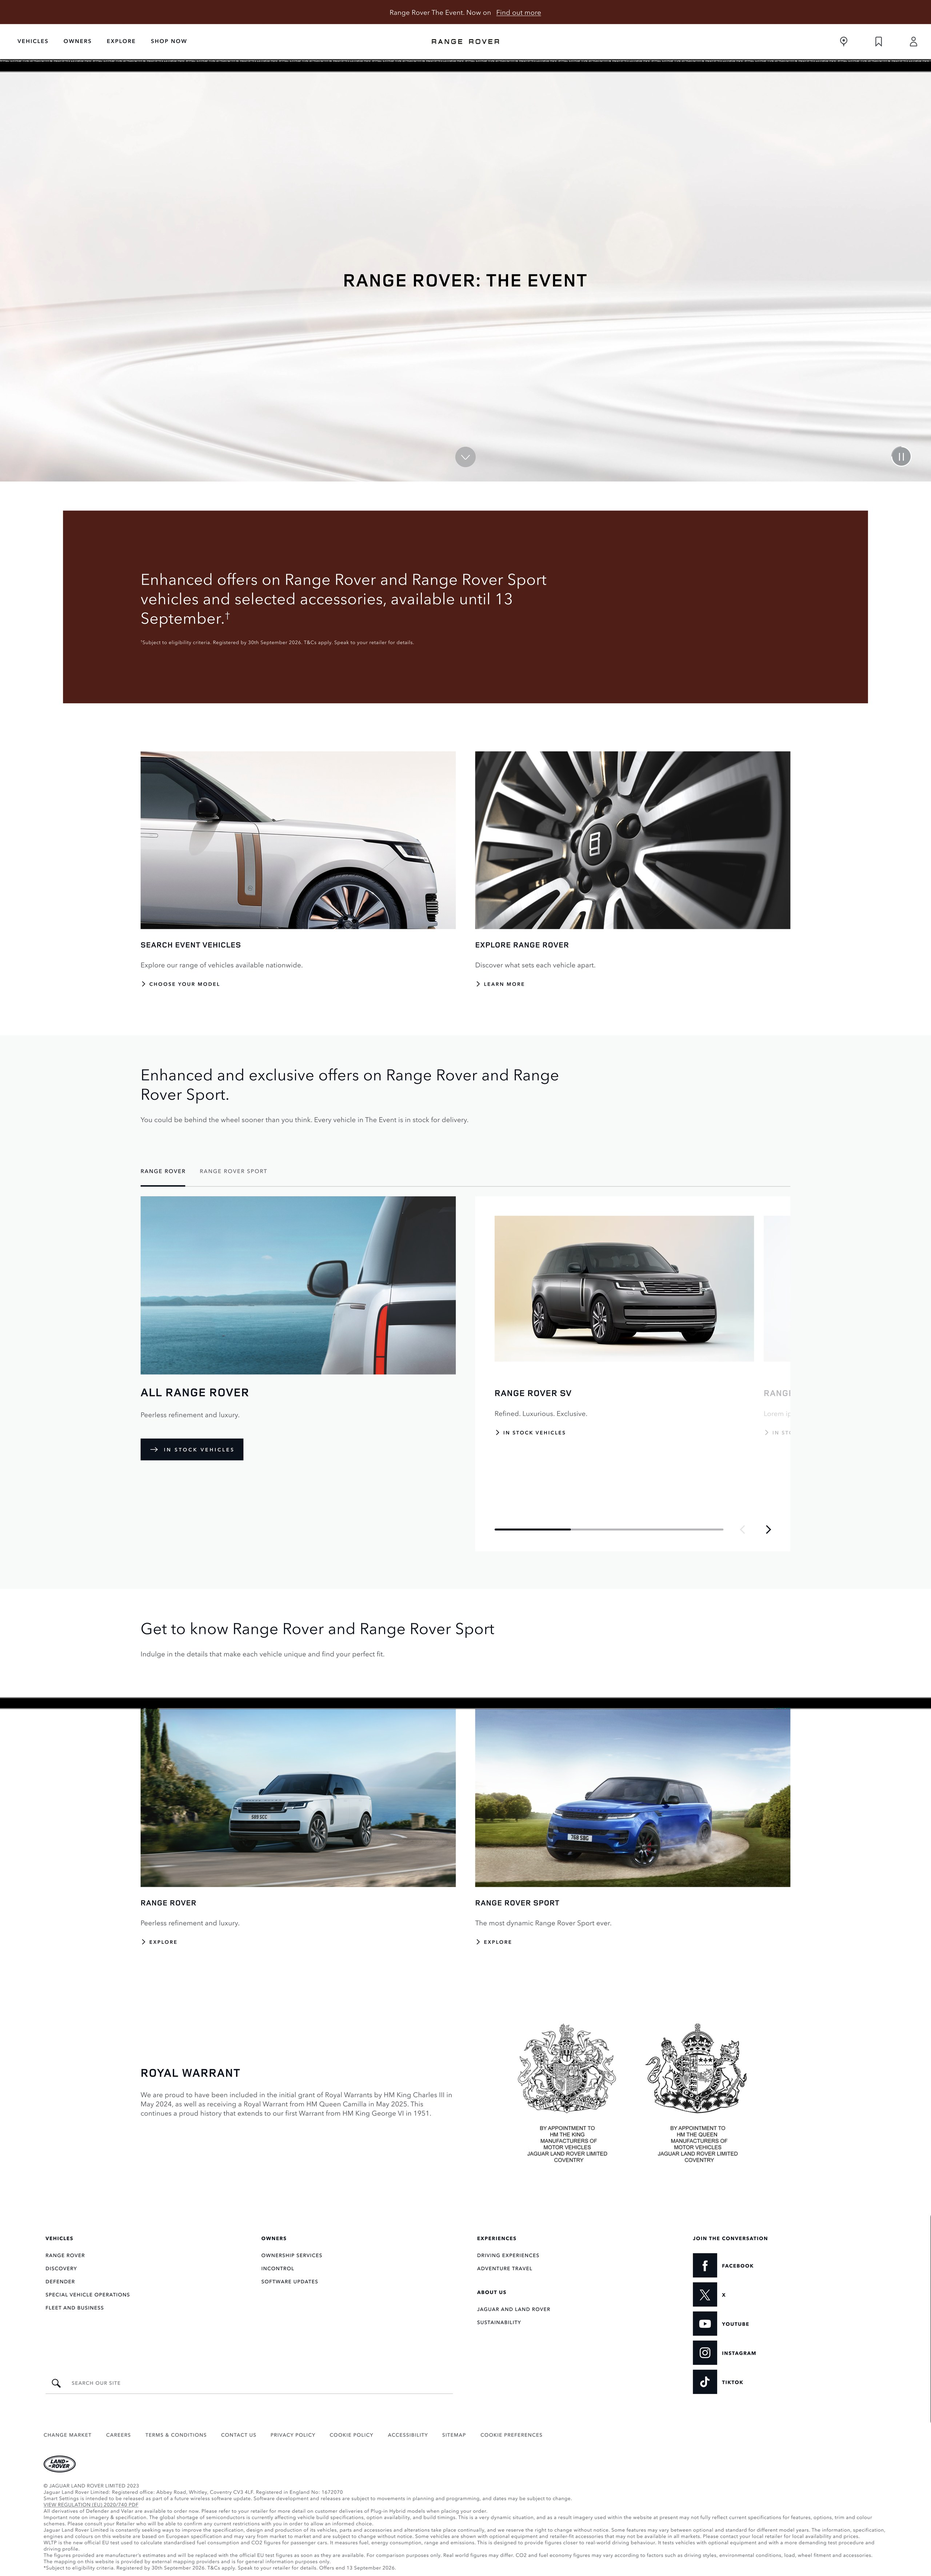
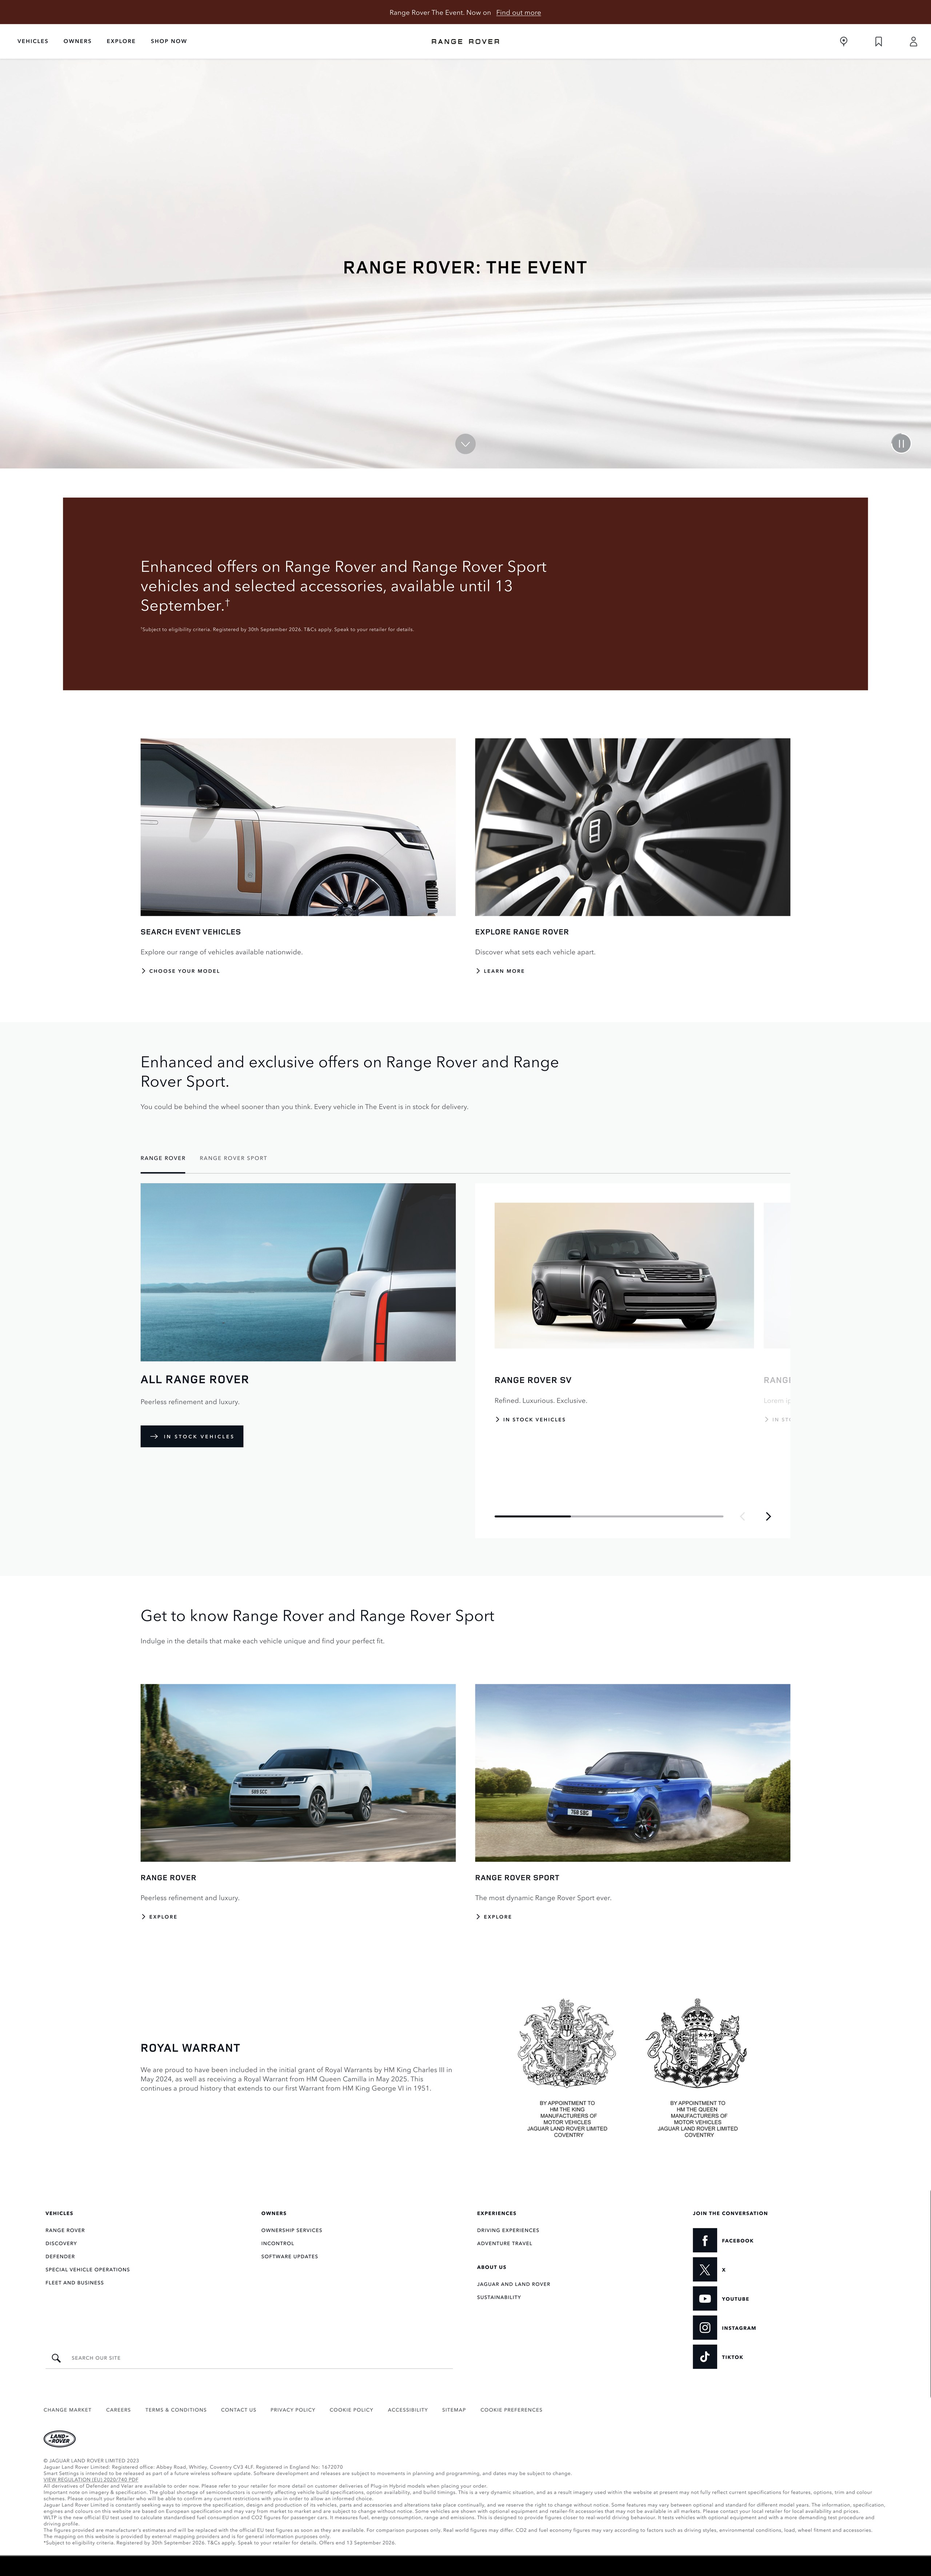
Add files via upload

diff --git a/index.html b/index.html
@@ -271,11 +271,28 @@
       pointer-events: none;
     }
     #lb-dots {
-      position: fixed; bottom: 20px; left: 50%; transform: translateX(-50%);
-      display: flex; gap: 8px; z-index: 2010;
+      position: fixed; bottom: 24px; left: 50%; transform: translateX(-50%);
+      display: flex; gap: 8px; z-index: 2010; align-items: center;
     }
     .lb-dot { width: 6px; height: 6px; border-radius: 50%; background: rgba(240,235,227,.2); cursor: none; transition: background .2s, transform .2s; }
     .lb-dot.active { background: #B5402A; transform: scale(1.3); }
+    #lb-prev, #lb-next {
+      position: fixed; top: 50%; z-index: 2010;
+      transform: translateY(-50%);
+      width: 48px; height: 48px; border-radius: 50%;
+      border: 1px solid rgba(240,235,227,.2);
+      background: rgba(240,235,227,.05);
+      color: rgba(240,235,227,.7); font-size: 18px;
+      cursor: none; display: flex; align-items: center; justify-content: center;
+      transition: background .2s, border-color .2s, color .2s;
+      font-family: 'DM Sans', sans-serif;
+    }
+    #lb-prev { left: 24px; }
+    #lb-next { right: 24px; }
+    #lb-prev:hover, #lb-next:hover {
+      background: rgba(181,64,42,.2); border-color: #B5402A; color: #F0EBE3;
+    }
+    #lb-prev.hidden, #lb-next.hidden { opacity: 0; pointer-events: none; }
 
     /* ── STATS BAND ── */
     .stats-band { margin-top: 80px; background: #131009; padding: 80px 48px; display: grid; grid-template-columns: repeat(4,1fr); gap: 40px; }
@@ -542,9 +559,8 @@
 
           <!-- RANGE ROVER EVENT -->
           <div class="ui-hcard" id="event-card">
-            <div class="ui-mockup-wrap">
-              <div class="ui-mockup-screen ui-mockup-back"><img src="RANGE ROVER - LTO Banner.png" alt="" style="object-fit:contain;background:#1a1210;" /></div>
-              <div class="ui-mockup-screen ui-mockup-mid"><img src="event-countdown.jpg" alt="" style="object-fit:cover;object-position:top;" /></div>
+            <div class="ui-mockup-wrap two-screen">
+              <div class="ui-mockup-screen ui-mockup-back"><img src="event-countdown.jpg" alt="" style="object-fit:cover;object-position:top;" /></div>
               <div class="ui-mockup-screen ui-mockup-front"><img src="event-landing.jpg" alt="" style="object-fit:cover;object-position:top;" /></div>
               <span class="ui-view-hint">View all</span>
             </div>
@@ -586,6 +602,8 @@
         <button id="lb-close">✕</button>
       </div>
     </div>
+    <button id="lb-prev">&#8592;</button>
+    <button id="lb-next">&#8594;</button>
     <div id="lb-track"></div>
     <div id="lb-dots"></div>
   </div>
@@ -725,10 +743,8 @@
     event: {
       title: 'Range Rover Event',
       imgs: [
-        { src: 'event-landing.jpg',              label: 'Event Landing Page' },
-        { src: 'event-countdown.jpg',            label: 'Countdown Page' },
-        { src: 'RANGE ROVER - LTO Banner.png',   label: 'LTO Banner' },
-        { src: 'RANGE ROVER - LTO Banner-1.png', label: 'LTO Banner 2' }
+        { src: 'event-landing.jpg',  label: 'Event Landing Page' },
+        { src: 'event-countdown.jpg', label: 'Countdown Page' }
       ]
     },
     promo: {
@@ -746,10 +762,35 @@
   var lbTitle   = document.getElementById('lb-topbar-title');
   var lbDotsEl  = document.getElementById('lb-dots');
 
-  function updateDots() {
-    var idx = Math.round(lbTrack.scrollLeft / window.innerWidth);
-    lbDotsEl.querySelectorAll('.lb-dot').forEach(function(d, i) { d.classList.toggle('active', i === idx); });
+  var lbPrevBtn = document.getElementById('lb-prev');
+  var lbNextBtn = document.getElementById('lb-next');
+
+  function getCurrentIdx() {
+    return Math.round(lbTrack.scrollLeft / window.innerWidth);
   }
+
+  function updateArrows(idx, total) {
+    lbPrevBtn.classList.toggle('hidden', idx === 0);
+    lbNextBtn.classList.toggle('hidden', idx === total - 1);
+  }
+
+  function updateDots() {
+    var idx = getCurrentIdx();
+    var total = lbDotsEl.querySelectorAll('.lb-dot').length;
+    lbDotsEl.querySelectorAll('.lb-dot').forEach(function(d, i) { d.classList.toggle('active', i === idx); });
+    updateArrows(idx, total);
+  }
+
+  lbPrevBtn.addEventListener('click', function() {
+    var idx = getCurrentIdx();
+    if (idx > 0) lbTrack.scrollTo({ left: (idx - 1) * window.innerWidth, behavior: 'smooth' });
+  });
+
+  lbNextBtn.addEventListener('click', function() {
+    var idx = getCurrentIdx();
+    var total = lbDotsEl.querySelectorAll('.lb-dot').length;
+    if (idx < total - 1) lbTrack.scrollTo({ left: (idx + 1) * window.innerWidth, behavior: 'smooth' });
+  });
 
   function openLightbox(key) {
     var data = lbData[key];
@@ -769,6 +810,7 @@
     });
     lbTrack.scrollLeft = 0;
     lbTrack.addEventListener('scroll', updateDots);
+    updateArrows(0, data.imgs.length);
     lbOverlay.classList.add('open');
     document.body.style.overflow = 'hidden';
     document.documentElement.style.overflow = 'hidden';
@@ -794,6 +836,11 @@
   document.getElementById('promo-card').addEventListener('click', function() { openLightbox('promo'); });
   document.getElementById('lb-close').addEventListener('click', closeLightbox);
   lbOverlay.addEventListener('click', function(e) { if (e.target === lbOverlay) closeLightbox(); });
-  document.addEventListener('keydown', function(e) { if (e.key === 'Escape' && lbOverlay.classList.contains('open')) closeLightbox(); });
+  document.addEventListener('keydown', function(e) {
+    if (!lbOverlay.classList.contains('open')) return;
+    if (e.key === 'Escape') closeLightbox();
+    if (e.key === 'ArrowRight') lbNextBtn.click();
+    if (e.key === 'ArrowLeft')  lbPrevBtn.click();
+  });
   </script>
 </body>
